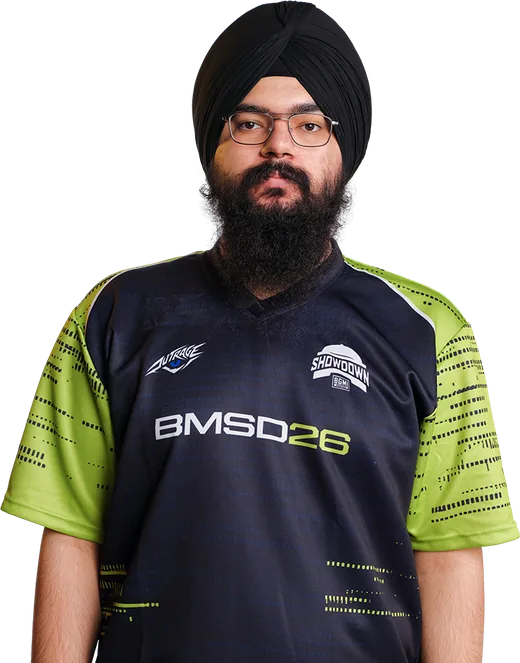
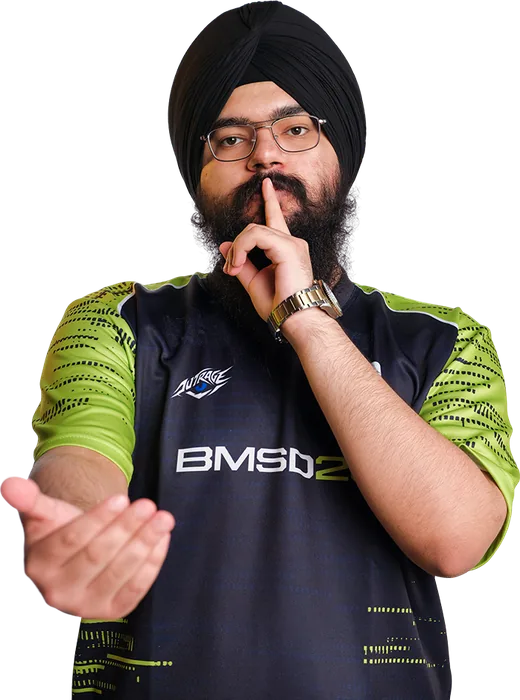
Predict results: new Ninjaboi photo, leader photo on every player card, headshots on every name
Claude-Session: https://claude.ai/code/session_01BzJY31iHji2UxXymYXT3SW

diff --git a/core/crowdpage.py b/core/crowdpage.py
@@ -94,14 +94,14 @@ h1{margin:2px 0 0;font-size:19px;text-transform:uppercase;letter-spacing:.02em;l
 .stk{display:flex;height:44px;overflow:hidden;border:1px solid var(--line)}.stk div{height:100%;transform-origin:left;transition:flex-grow 1s}
 .stk div+div{border-left:2px solid var(--bg)}
 .sleg{display:grid;grid-template-columns:repeat(2,1fr);gap:6px 14px;margin-top:12px}.sleg div{display:flex;align-items:center;gap:8px;font-size:14px;font-weight:600}
-.sleg i{width:10px;height:10px;flex:none}.sleg span{margin-left:auto;font:14px "Share Tech Mono",monospace}
+.sleg i{width:10px;height:10px;flex:none}.sleg span:not(.av){margin-left:auto;font:14px "Share Tech Mono",monospace}
 /* treemap */
-.tm{position:relative;height:280px}.tm div{position:absolute;border:2px solid var(--card);padding:8px;overflow:hidden;display:flex;flex-direction:column;justify-content:flex-end}
+.tm{position:relative;height:260px}.tm div{position:absolute;border:2px solid var(--card);padding:8px;overflow:hidden;display:flex;flex-direction:column;justify-content:flex-end}
 .tm b{font-size:14px;line-height:1.1;white-space:nowrap;overflow:hidden;text-overflow:ellipsis}.tm span{font:20px "Share Tech Mono",monospace}
 /* gauge */
 .gg{display:flex;gap:16px;align-items:center;flex-wrap:wrap}.gg svg{width:220px;flex:none}
 .rk{flex:1;min-width:170px}.rk div{display:flex;align-items:center;gap:10px;padding:5px 0;border-bottom:1px dashed var(--line);font-weight:600}.rk div:last-child{border:0}
-.rk em{font:normal 13px "Share Tech Mono",monospace;color:var(--muted);width:22px;display:inline-block;flex:none}.rk span{margin-left:auto;font:14px "Share Tech Mono",monospace}
+.rk em{font:normal 13px "Share Tech Mono",monospace;color:var(--muted);width:22px;display:inline-block;flex:none}.rk span:not(.av){margin-left:auto;font:14px "Share Tech Mono",monospace}
 /* players */
 .av{width:24px;height:24px;border-radius:50%;object-fit:cover;object-position:top;background:var(--card2);border:1px solid var(--line);flex:none;display:inline-grid;place-items:center;font:700 9px "Chakra Petch",sans-serif;color:var(--muted)}
 .c.ph{overflow:hidden}.cut{position:absolute;right:-6px;bottom:0;height:88%;max-height:330px;width:auto;pointer-events:none;
@@ -113,8 +113,14 @@ h1{margin:2px 0 0;font-size:19px;text-transform:uppercase;letter-spacing:.02em;l
 .elimP .gtop{display:flex;align-items:flex-end;justify-content:space-between;min-height:150px}
 .elimP .cut{position:relative;right:auto;bottom:auto;height:170px;margin-right:-8px}
 .tm .tc{position:absolute;right:0;bottom:0;height:92%;width:auto;-webkit-mask-image:linear-gradient(to top,transparent 0,#000 30%);mask-image:linear-gradient(to top,transparent 0,#000 30%);pointer-events:none}
-.tm b{display:flex;align-items:center;gap:6px}.tav{width:30px;height:30px;border-color:rgba(0,0,0,.25)}
+.tav{width:30px;height:30px;border-color:rgba(0,0,0,.25)}
 .pills span{display:inline-flex;align-items:center;gap:6px;padding:3px 10px 3px 3px}
+/* leader strip on player cards */
+.lead{position:relative;height:150px;margin:-4px 0 12px;border-bottom:1px solid var(--line);overflow:hidden}
+.lead .lc{position:absolute;right:-10px;bottom:0;height:150px;max-height:none;-webkit-mask-image:linear-gradient(to top,transparent 0,#000 30%);mask-image:linear-gradient(to top,transparent 0,#000 30%)}
+.lead .ln{position:relative;font:700 52px/1 "Chakra Petch",sans-serif;margin-top:18px;text-shadow:0 0 20px rgba(182,242,58,.3)}
+.lead .lw{position:relative;font-size:20px;font-weight:700;text-transform:uppercase;margin-top:4px}.lead small{position:relative;font:11px "Share Tech Mono",monospace;color:var(--muted)}
+.tm div{gap:2px}.tm .tav{position:absolute;top:6px;right:6px;width:28px;height:28px;border-color:rgba(0,0,0,.25)}
 /* curve */
 .cv svg{width:100%;height:auto;display:block}
 .foot{margin-top:22px;font:12px "Share Tech Mono",monospace;color:var(--muted);display:flex;gap:12px;flex-wrap:wrap}
@@ -134,6 +140,7 @@ const logo=(r,cls)=>{const src=TL[key(r.label)];return src?`<img class="lg ${cls
 const PK=n=>Object.keys(PI).find(k=>k.toLowerCase()===String(n).toLowerCase()),ph=(n,k)=>{const x=PI[PK(n)];return x&&x[k||'h']},
  av=r=>{const u=!r.other&&ph(r.label);return u?`<img class="av" src="${u}" alt="" loading="lazy">`:`<span class="av">${r.other?'+':esc(r.label.slice(0,2).toUpperCase())}</span>`},
  cut=(n,cls)=>{const u=ph(n,'f');return u?`<img class="cut ${cls||''}" src="${u}" alt="${esc(n)}">`:''};
+const lead=(q,col)=>{const L=q.rows[0];return `<div class="lead">${cut(L.label,'lc')}<div class="ln" style="color:${col||'var(--lime)'}">${pc(L.pct)}</div><div class="lw ${ok(q,L.label)}">${esc(L.label)}</div><small>top pick</small></div>`};
 const Q=t=>C.questions.find(q=>q.tag===t),ok=(q,l)=>(q.answer||[]).map(a=>a.toLowerCase()).includes(String(l).toLowerCase())?'ok':'';
 const card=(q,cls,inner)=>q?`<section class="c ${cls}"><div class="t">// ${esc(q.tag)}</div><h3>${esc(q.title)}</h3>${inner}<div class="ft">${esc(q.note)}</div></section>`:'';
 const arc=(cx,cy,r,a0,a1)=>{const p=a=>[cx+r*Math.cos(a),cy+r*Math.sin(a)],[x0,y0]=p(a0),[x1,y1]=p(a1);return `M${x0} ${y0}A${r} ${r} 0 ${a1-a0>Math.PI?1:0} 1 ${x1} ${y1}`};
@@ -154,16 +161,16 @@ function hero(q){const L=q.rows[0],sub=L.pct>=50?'picked by more than half':L.pc
  return card(q,'s4 ph heroP',`${cut(L.label)}<div class="big"><div class="n" data-n="${L.pct}">0%</div><div class="who ${ok(q,L.label)}">${esc(L.label)}<small>${sub}</small></div></div><div class="pills">${q.rows.slice(1).map(r=>`<span class="${ok(q,r.label)}">${av(r)}${esc(r.label)}<em>${pc(r.pct)}</em></span>`).join('')}</div>`)}
 // 5. final MVP: 100% stacked bar
 function stacked(q){
- return card(q,'s4',`<div class="stk">${q.rows.map((r,i)=>`<div style="flex:0 0 0;background:${r.other?OTH:COL[i]}" data-g="${r.pct}" title="${esc(r.label)} ${pc(r.pct)}"></div>`).join('')}</div><div class="sleg">${q.rows.map((r,i)=>`<div class="${ok(q,r.label)}"><i style="background:${r.other?OTH:COL[i]}"></i>${av(r)}${esc(r.label)}<span>${pc(r.pct)}</span></div>`).join('')}</div>`)}
+ return card(q,'s4 ph',lead(q)+`<div class="stk">${q.rows.map((r,i)=>`<div style="flex:0 0 0;background:${r.other?OTH:COL[i]}" data-g="${r.pct}" title="${esc(r.label)} ${pc(r.pct)}"></div>`).join('')}</div><div class="sleg">${q.rows.map((r,i)=>`<div class="${ok(q,r.label)}"><i style="background:${r.other?OTH:COL[i]}"></i>${av(r)}${esc(r.label)}<span>${pc(r.pct)}</span></div>`).join('')}</div>`)}
 // 6. best IGL: squarified treemap
 function squarify(items,x,y,w,h){const out=[],tot=items.reduce((a,r)=>a+r.pct,0),sc=w*h/tot;let rest=items.map(r=>({...r,a:r.pct*sc}));
  const worst=(row,len)=>{const s=row.reduce((a,r)=>a+r.a,0);return Math.max(...row.map(r=>Math.max(len*len*r.a/(s*s),s*s/(len*len*r.a))))};
  while(rest.length){const len=Math.min(w,h);let row=[rest[0]],k=1;while(k<rest.length&&worst(row.concat(rest[k]),len)<=worst(row,len)){row.push(rest[k]);k++}
   const s=row.reduce((a,r)=>a+r.a,0);if(w>=h){const cw=s/h;let yy=y;row.forEach(r=>{const ch=r.a/cw;out.push({...r,x,y:yy,w:cw,h:ch});yy+=ch});x+=cw;w-=cw}
   else{const ch=s/w;let xx=x;row.forEach(r=>{const cw=r.a/ch;out.push({...r,x:xx,y,w:cw,h:ch});xx+=cw});y+=ch;h-=ch}rest=rest.slice(k)}return out}
-function tree(q){const W=400,H=280,cells=squarify(q.rows.map((r,i)=>({...r,c:r.other?OTH:COL[i]})),0,0,W,H);
- return card(q,'s4',`<div class="tm">${cells.map(r=>{const dark=['#b6f23a','#f5c451','#3fd6a4','#4cc9f0'].includes(r.c),small=r.w<70||r.h<48;
-  return `<div class="${ok(q,r.label)}" style="left:${r.x/W*100}%;top:${r.y/H*100}%;width:${r.w/W*100}%;height:${r.h/H*100}%;background:${r.c};color:${dark?'#0b0b12':'#eeeef5'}" title="${esc(r.label)} ${pc(r.pct)}">${small?'':`<b>${!r.other&&r.w>=120&&ph(r.label)?`<img class="av tav" src="${ph(r.label)}" alt="">`:''}${esc(r.label)}</b>`}<span style="${small?'font-size:13px':''}">${small?esc(r.label.slice(0,4))+' ':''}${pc(r.pct)}</span></div>`}).join('')}</div>`)}
+function tree(q){const W=400,H=260,cells=squarify(q.rows.map((r,i)=>({...r,c:r.other?OTH:COL[i]})),0,0,W,H);
+ return card(q,'s4 ph',lead(q)+`<div class="tm">${cells.map(r=>{const dark=['#b6f23a','#f5c451','#3fd6a4','#4cc9f0'].includes(r.c),narrow=r.w<118,u=!r.other&&ph(r.label);
+  return `<div class="${ok(q,r.label)}" style="left:${r.x/W*100}%;top:${r.y/H*100}%;width:${r.w/W*100}%;height:${r.h/H*100}%;background:${r.c};color:${dark?'#0b0b12':'#eeeef5'}" title="${esc(r.label)} ${pc(r.pct)}">${u?`<img class="av tav" src="${u}" alt="${esc(r.label)}" style="${narrow||r.h<70?'width:20px;height:20px;top:4px;right:4px':''}">`:''}<b style="${narrow?'font-size:12px':''}">${esc(r.label)}</b><span style="${narrow?'font-size:16px':''}">${pc(r.pct)}</span></div>`}).join('')}</div>`)}
 // 7. eliminator: gauge + ranking
 function gauge(q){const L=q.rows[0],a1=Math.PI+Math.PI*L.pct/100;
  return card(q,'s4 elimP',`<div class="gtop"><svg viewBox="0 0 220 130" style="width:62%;max-width:230px"><path d="${arc(110,115,90,Math.PI,2*Math.PI-.0001)}" stroke="#262636" stroke-width="18" fill="none"/><path d="${arc(110,115,90,Math.PI,a1)}" stroke="#ff4d5e" stroke-width="18" fill="none" class="gp" style="filter:drop-shadow(0 0 6px rgba(255,77,94,.6))"/><text x="110" y="100" text-anchor="middle" fill="#eeeef5" font-family="Chakra Petch,sans-serif" font-weight="700" font-size="34">${pc(L.pct)}</text><text x="110" y="122" text-anchor="middle" fill="#8d8ca3" font-family="Share Tech Mono,monospace" font-size="12">${esc(L.label.toUpperCase())}</text></svg>${cut(L.label)}</div>
